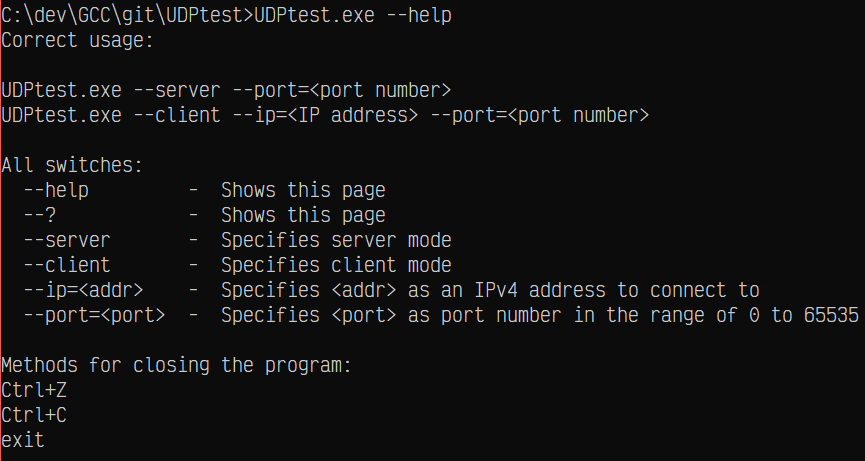
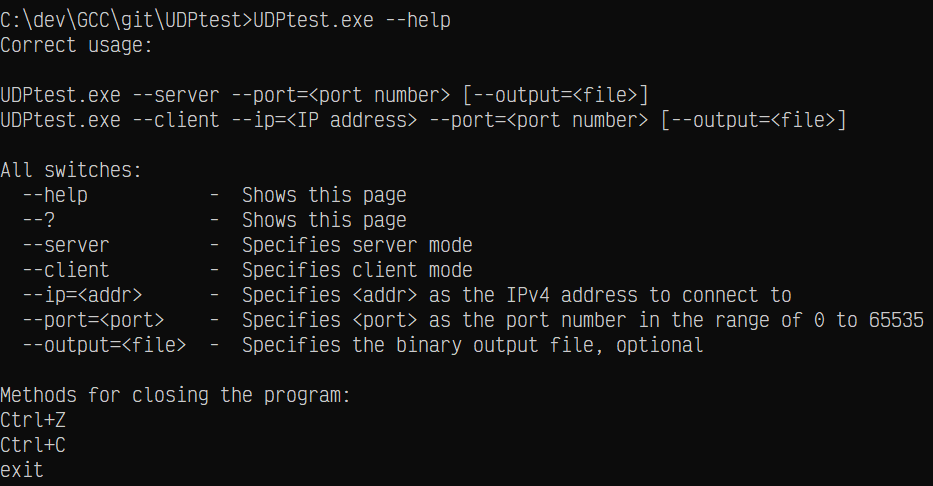
Update manual

diff --git a/src/main.c b/src/main.c
@@ -320,8 +320,8 @@ void printhelp(const char * restrict app)
 	printf(
 		"Correct usage:\n"
 		"\n"
-		"%s --server --port=<port number> --output=<file>\n"
-		"%s --client --ip=<IP address> --port=<port number> --output=<file>\n"
+		"%s --server --port=<port number> [--output=<file>]\n"
+		"%s --client --ip=<IP address> --port=<port number> [--output=<file>]\n"
 		"\n"
 		"All switches:\n"
 		"  --help           -  Shows this page\n"
@@ -330,7 +330,7 @@ void printhelp(const char * restrict app)
 		"  --client         -  Specifies client mode\n"
 		"  --ip=<addr>      -  Specifies <addr> as the IPv4 address to connect to\n"
 		"  --port=<port>    -  Specifies <port> as the port number in the range of 0 to 65535\n"
-		"  --output=<file>  -  Specifies the binary output file\n"
+		"  --output=<file>  -  Specifies the binary output file, optional\n"
 		"\n"
 		"Methods for closing the program:\n"
 		"Ctrl+Z\n"
